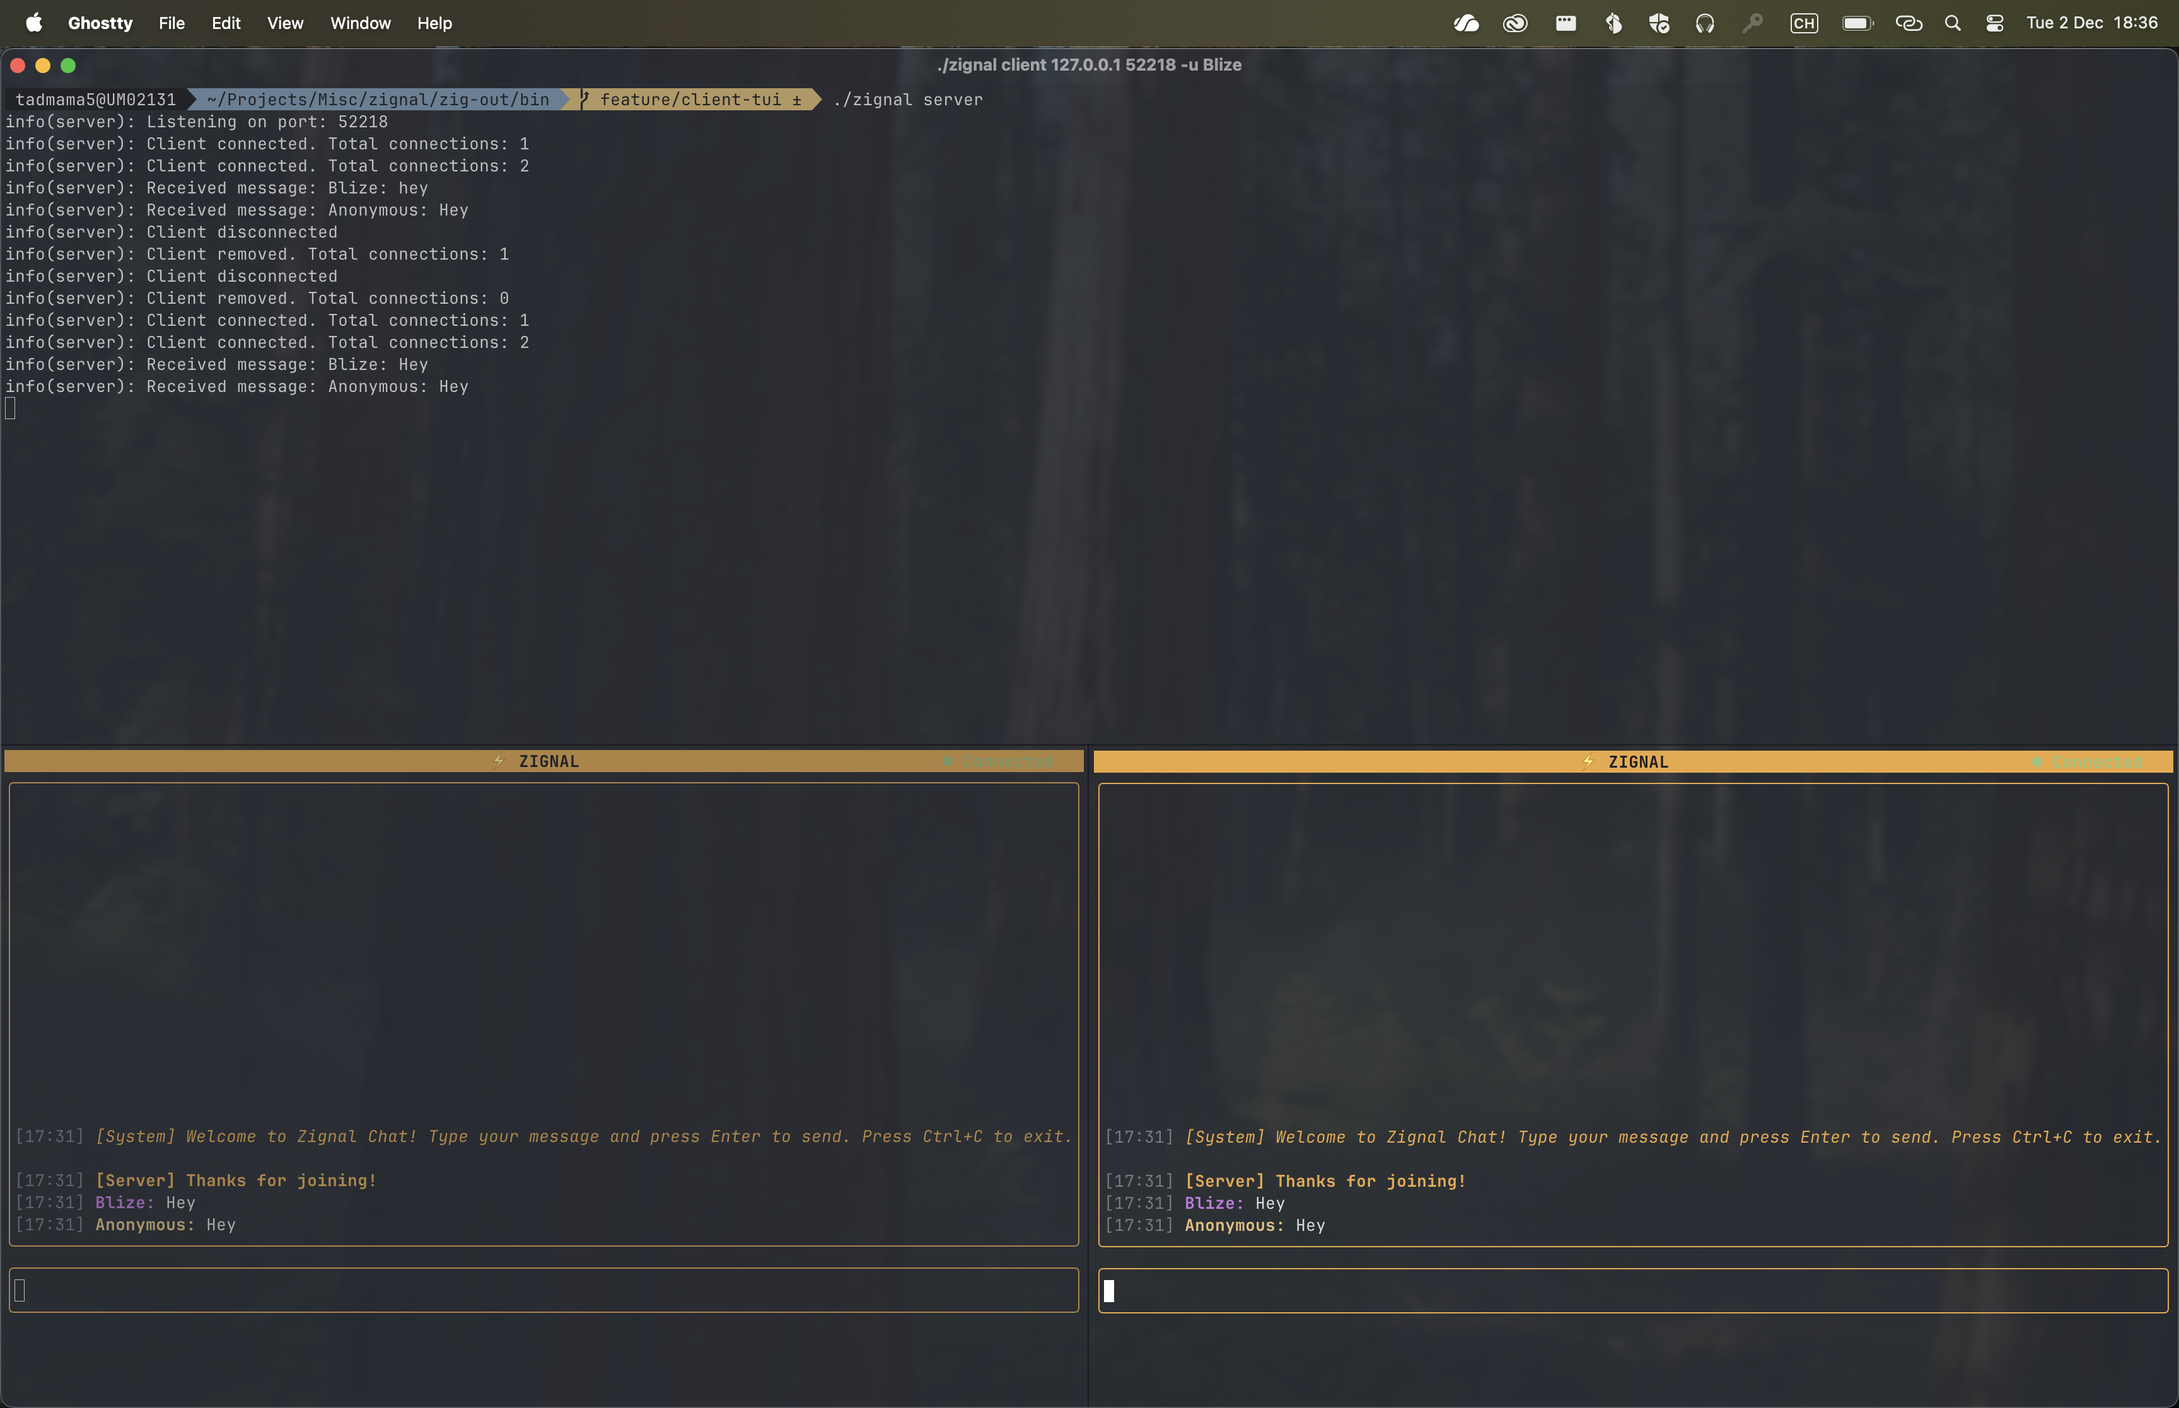
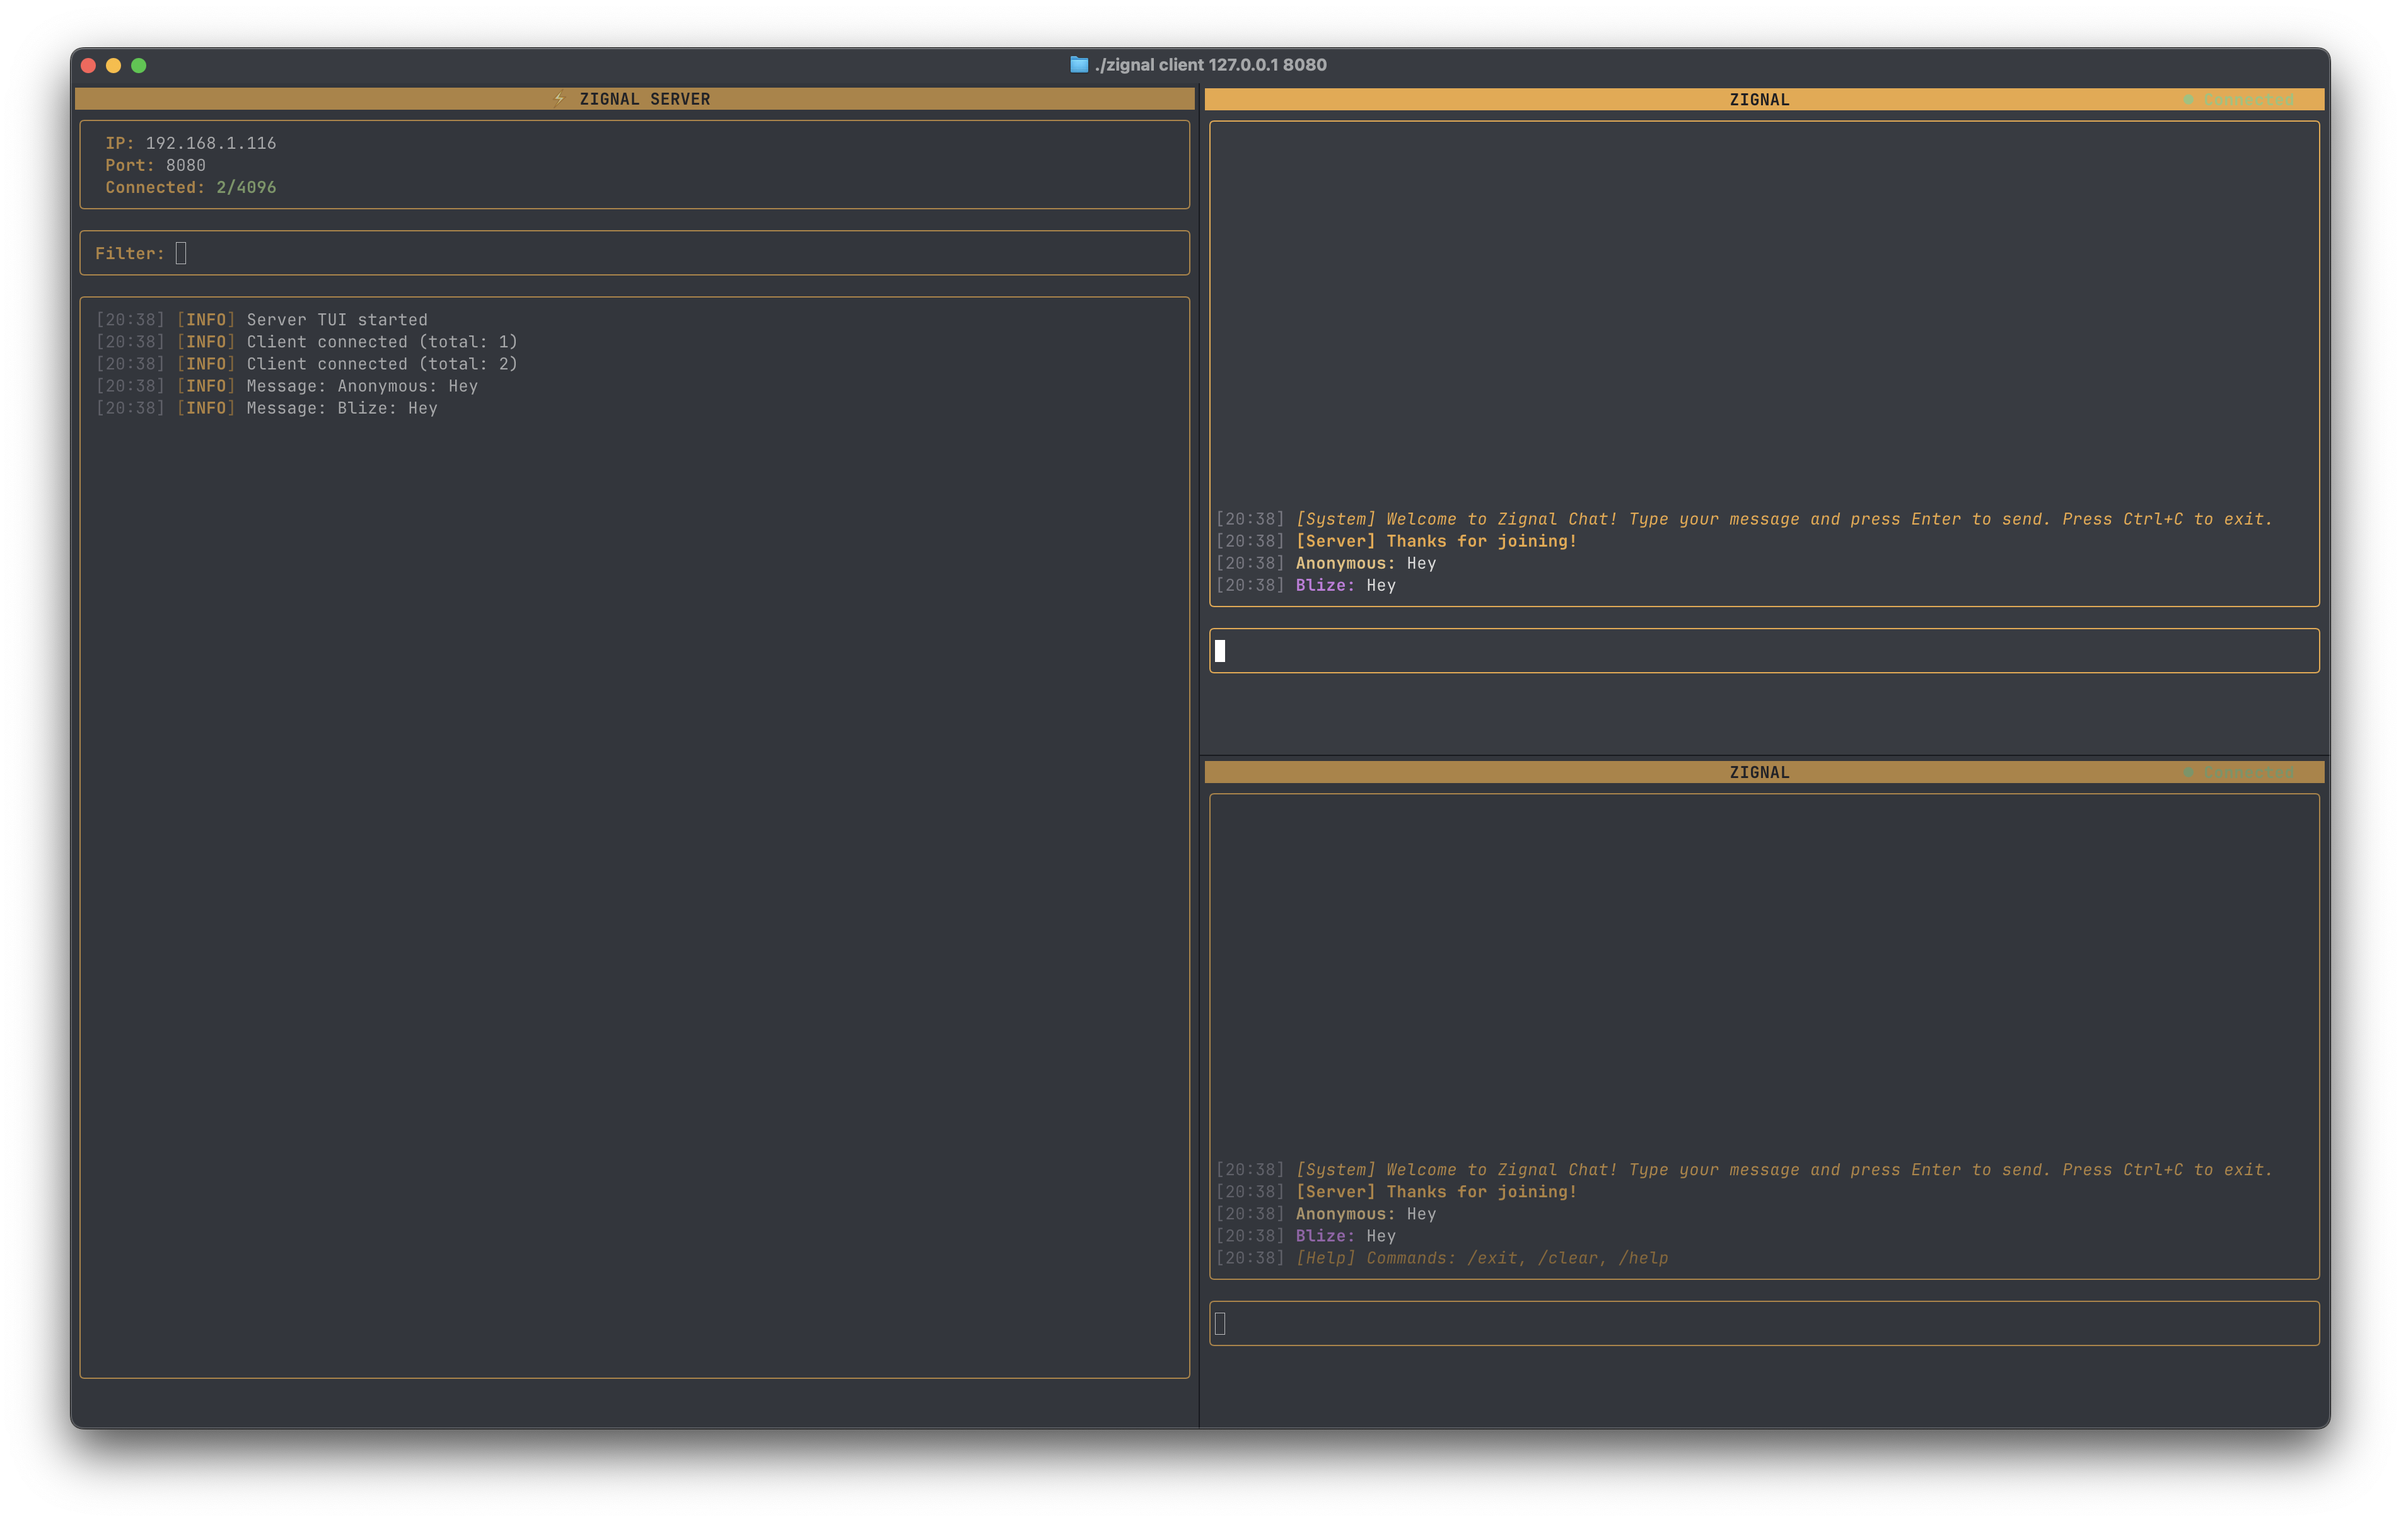
doc: update README.md and example image

Changed region(s): [[0.0, 0.0, 1.0, 1.0], [0.5, 0.3397, 0.6562, 0.4324]]

diff --git a/README.md b/README.md
@@ -89,22 +89,33 @@ Examples:
 
 ### Some Features
 
-The client now includes a modern TUI (Terminal User Interface) built with [libvaxis](https://github.com/rockorager/libvaxis):
+#### **Client:**
+
+The client has a modern TUI (Terminal User Interface) built with [libvaxis](https://github.com/rockorager/libvaxis):
+
+This includes a nice chat box, inout and other stuff. As some basic controls for exiting, refreshing and scrolling.
 
 **Commands:**
+
 - `/exit`: Exit the application
 - `/clear`: Clear the message history
 - `/help`: Show available commands
 - More to come
 
+#### Server
+
+The server has a modern TUI (Terminal User Interface) built with [libvaxis](https://github.com/rockorager/libvaxis):
+
+This includes basic infos nicely presented like connected users etc. As well as a input bar for filtering through the logs
+
 ### Future Work
 
 Additional TUI improvements planned:
 
-1. Client:
-   - Add other Chats box (multiple chat rooms)
+- Add other Chats box (multiple chat rooms)
 
-2. Server:
-   - Server Log Box with TUI
-   - Core information about the server displayed
-   - Nicer colors / Filtering between certain types of logs
+Additional improvements planned:
+
+- Direct message command inside server
+- Encryption
+- And much more
